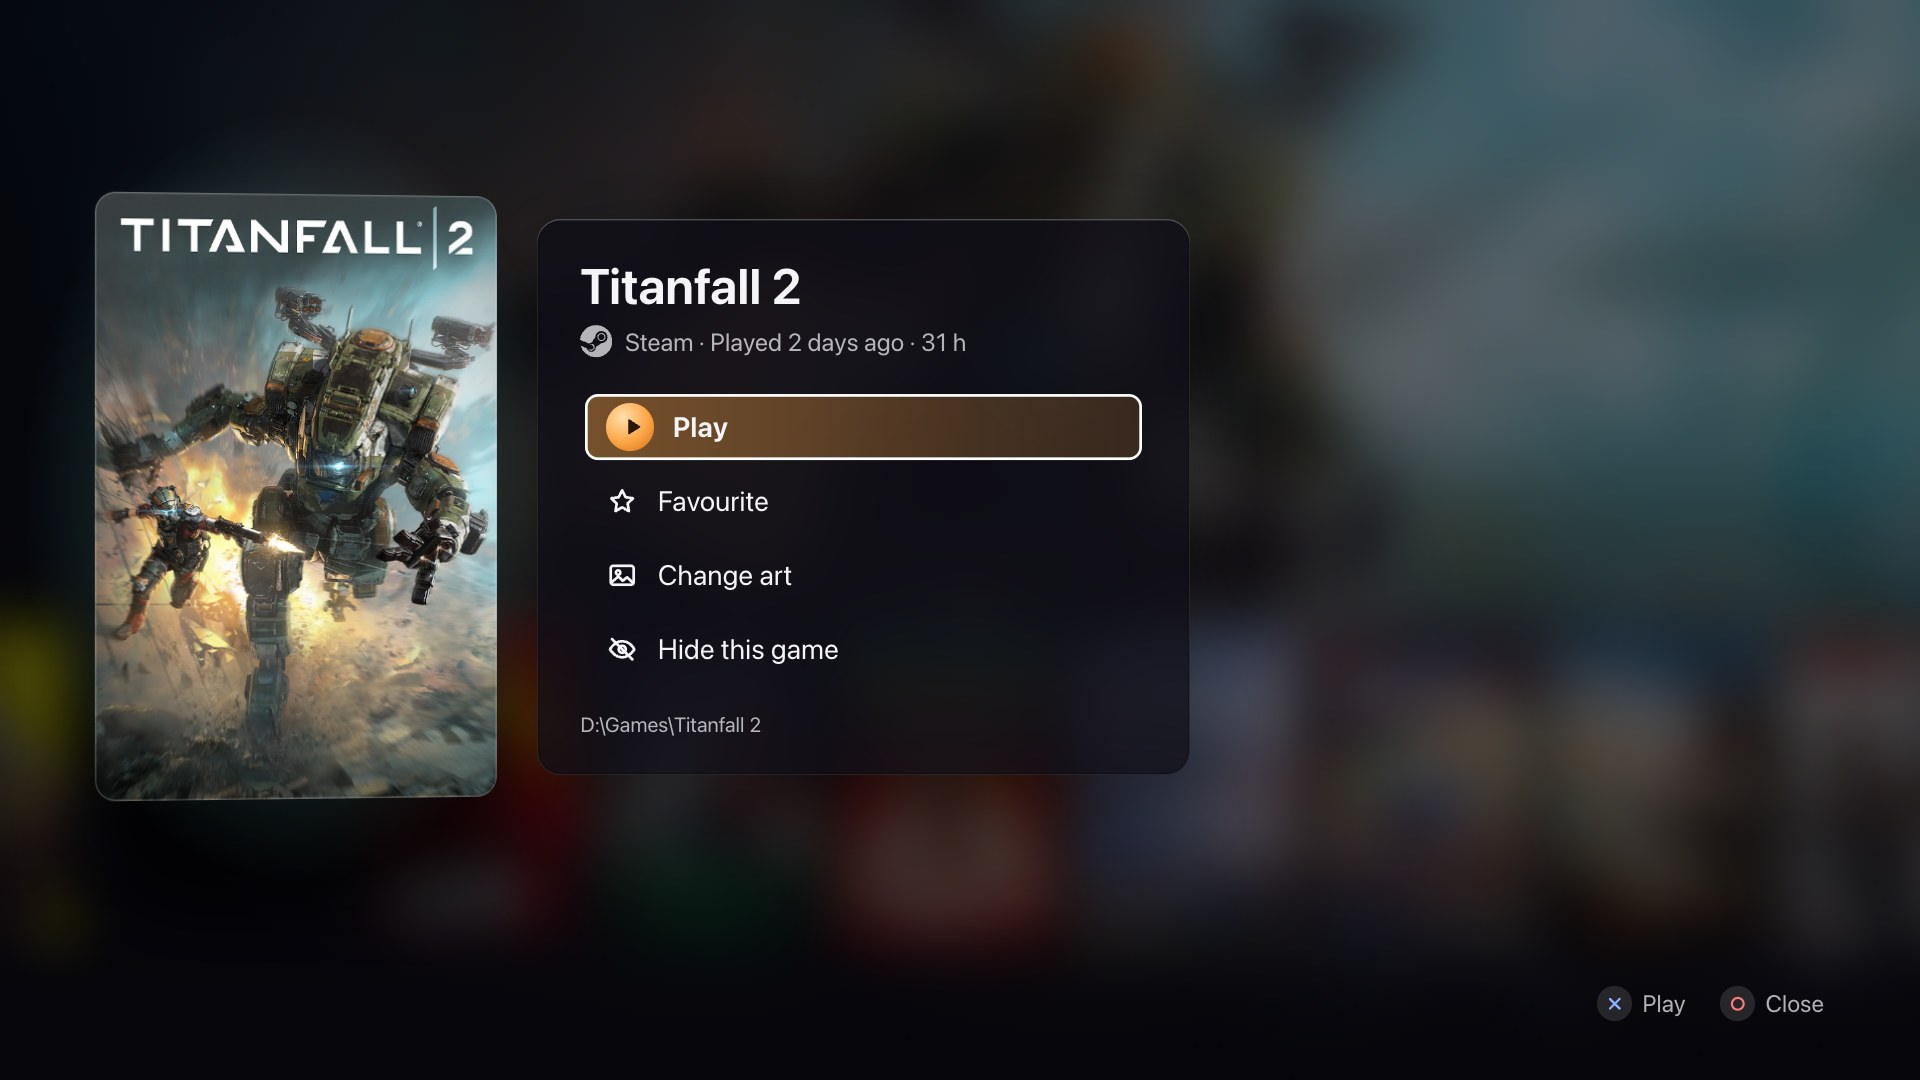
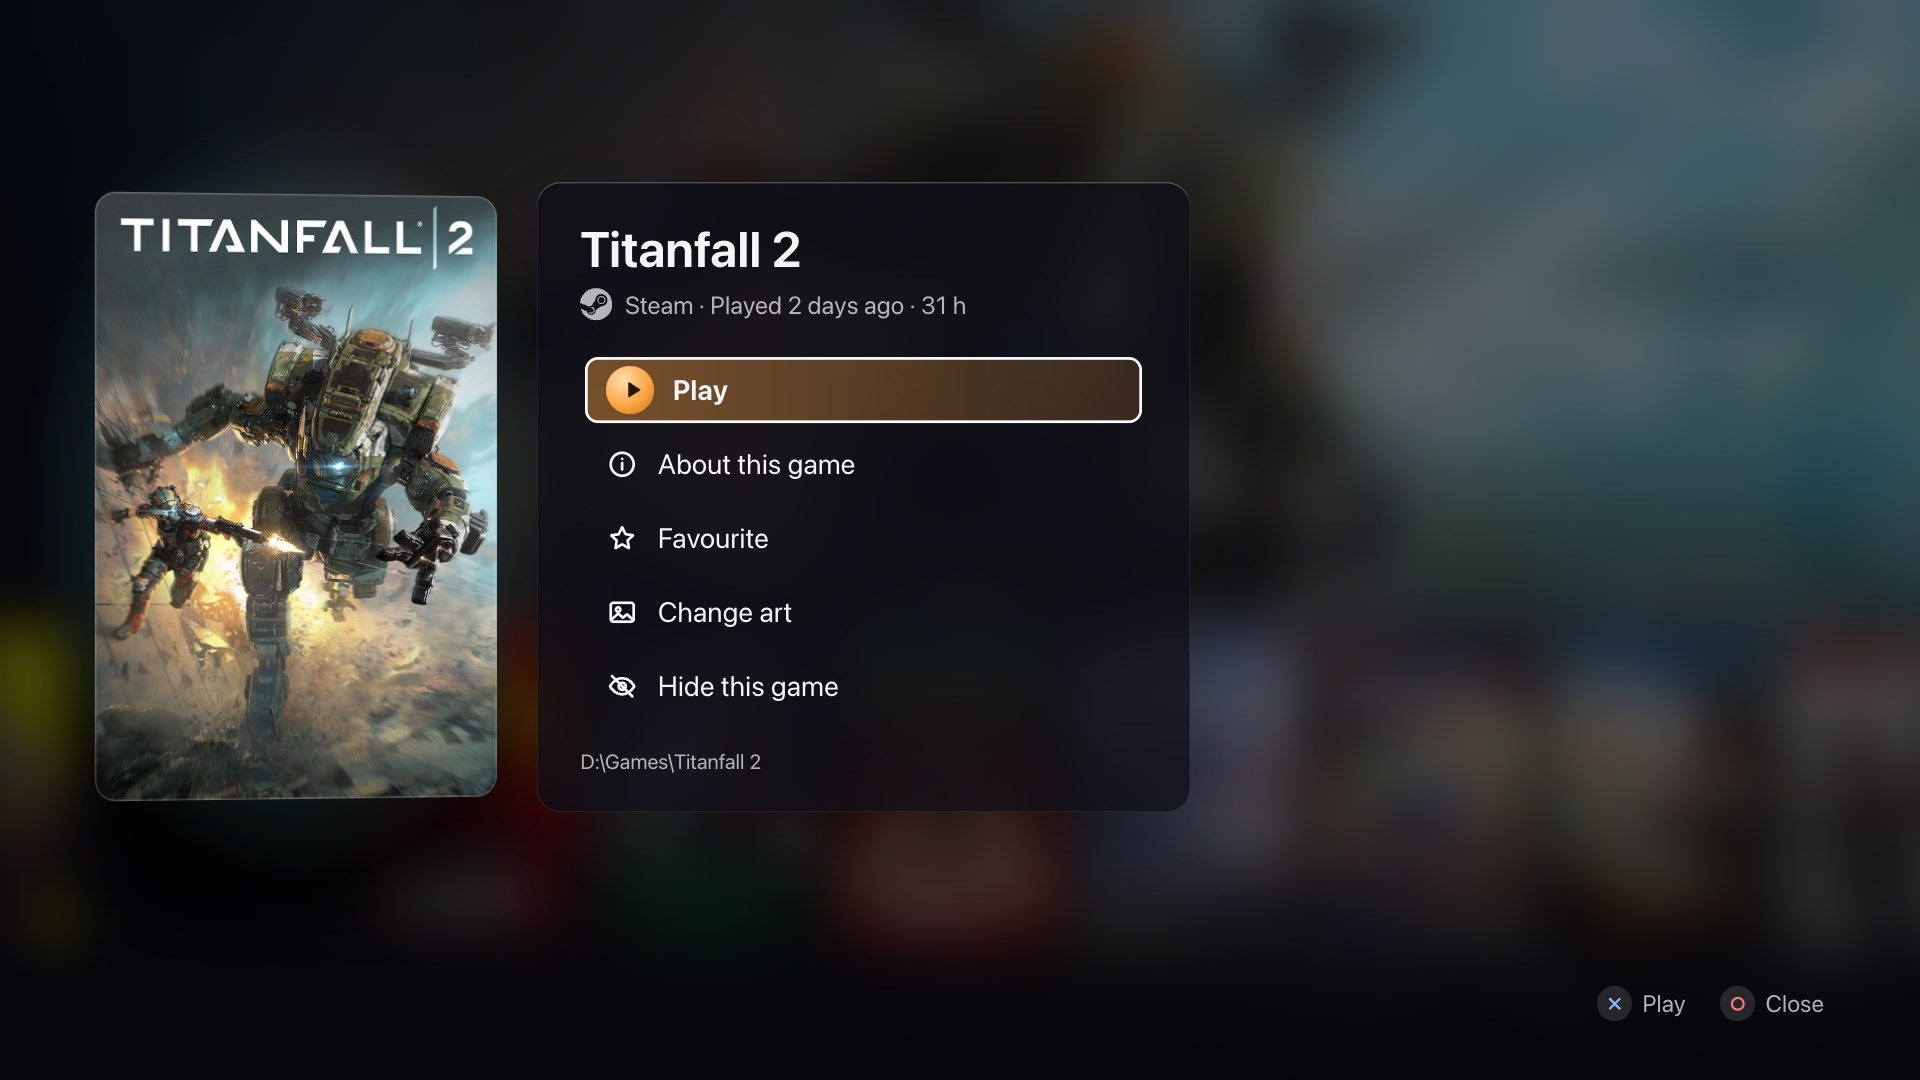
Site and README: trailers, About this game and Your captures; the game menu picture shows About

Changed region(s): [[0.2812, 0.2139, 0.5938, 0.7639], [0.4375, 0.7333, 0.5312, 0.7639], [0.5938, 0.7028, 0.625, 0.7639]]

diff --git a/site/index.html b/site/index.html
@@ -138,8 +138,8 @@
             <p>How long you've played every game, not only the Steam ones.</p>
           </li>
           <li class="card">
-            <h4>Cover art from Steam</h4>
-            <p>Covers, backgrounds and logos from Steam, for games from every store.</p>
+            <h4>Art and trailers from Steam</h4>
+            <p>Covers, backgrounds and logos for games from every store. Stay on a cover and its trailer plays behind it.</p>
           </li>
           <li class="card">
             <h4>New installs show up</h4>
@@ -154,8 +154,10 @@
         <div class="split-copy">
           <p class="eyebrow">A game's menu</p>
           <h3 id="menu-title">Everything about a game, one press away</h3>
-          <p>Press Options to favourite a game, hide it or change its art.</p>
+          <p>Press Options to see what a game is about, look through your screenshots of it, favourite it, hide it or change its art.</p>
           <ul class="ticks">
+            <li>About this game: Steam's description, who made it and its screenshots.</li>
+            <li>Your captures: the screenshots you took with Steam, Game Bar or the NVIDIA app.</li>
             <li>Wrong cover? Pick another or search again.</li>
             <li>Add a game Lamplit missed, with the controller.</li>
             <li>A stray press can't close a game or shut the PC down.</li>
@@ -166,7 +168,7 @@
                srcset="images/details-640.webp 640w, images/details-960.webp 960w, images/details-1280.webp 1280w"
                sizes="(min-width: 960px) 640px, calc(100vw - 32px)"
                width="1920" height="1080" loading="lazy" decoding="async"
-               alt="A game's menu: Titanfall 2's cover lifted over the blurred home screen, and beside it Steam, played 2 days ago, 31 hours, with Play, Favourite, Change art and Hide this game">
+               alt="A game's menu: Titanfall 2's cover lifted over the blurred home screen, and beside it Steam, played 2 days ago, 31 hours, with Play, About this game, Favourite, Change art and Hide this game">
         </figure>
       </div>
     </section>
@@ -450,7 +452,7 @@
           </details>
           <details>
             <summary>Does it send anything online?</summary>
-            <p>Game art requests go to Steam's store: game names, Steam app ids and your country. Update checks go to GitHub. You can switch off online art and automatic update checks in Settings. No accounts, no telemetry.</p>
+            <p>Game art requests go to Steam's store: game names, Steam app ids and your country. A game's About page and trailer come from Steam too. Update checks go to GitHub. You can switch off online art and automatic update checks in Settings. No accounts, no telemetry.</p>
           </details>
           <details>
             <summary>How do I remove it?</summary>

diff --git a/README.md b/README.md
@@ -31,7 +31,7 @@ while you play. When the game closes, Lamplit is back on screen.
   </tr>
   <tr>
     <td width="50%"><img src="docs/images/find.jpg" alt="Find a game: an on-screen keyboard with rdr typed, store and sort choices, and the row narrowed to Red Dead Redemption 2"><br><sub>Find a game: "rdr" finds Red Dead Redemption 2.</sub></td>
-    <td width="50%"><img src="docs/images/details.jpg" alt="A game's menu: its cover lifted over the blurred home screen, and beside it the store, last played, play time and folder, with Play, Favourite, Change art and Hide this game"><br><sub>A game's menu: its cover lifted, its details and choices beside it.</sub></td>
+    <td width="50%"><img src="docs/images/details.jpg" alt="A game's menu: its cover lifted over the blurred home screen, and beside it the store, last played, play time and folder, with Play, About this game, Favourite, Change art and Hide this game"><br><sub>A game's menu: its cover lifted, its details and choices beside it.</sub></td>
   </tr>
   <tr>
     <td width="50%"><img src="docs/images/dock.jpg" alt="The in-game dock over Cyberpunk 2077: the game's cover and play time, the volume, batteries and time, and Resume, TV, Quiet, Stats, Home and Close game"><br><sub>The in-game dock: hold PS over a game.</sub></td>
